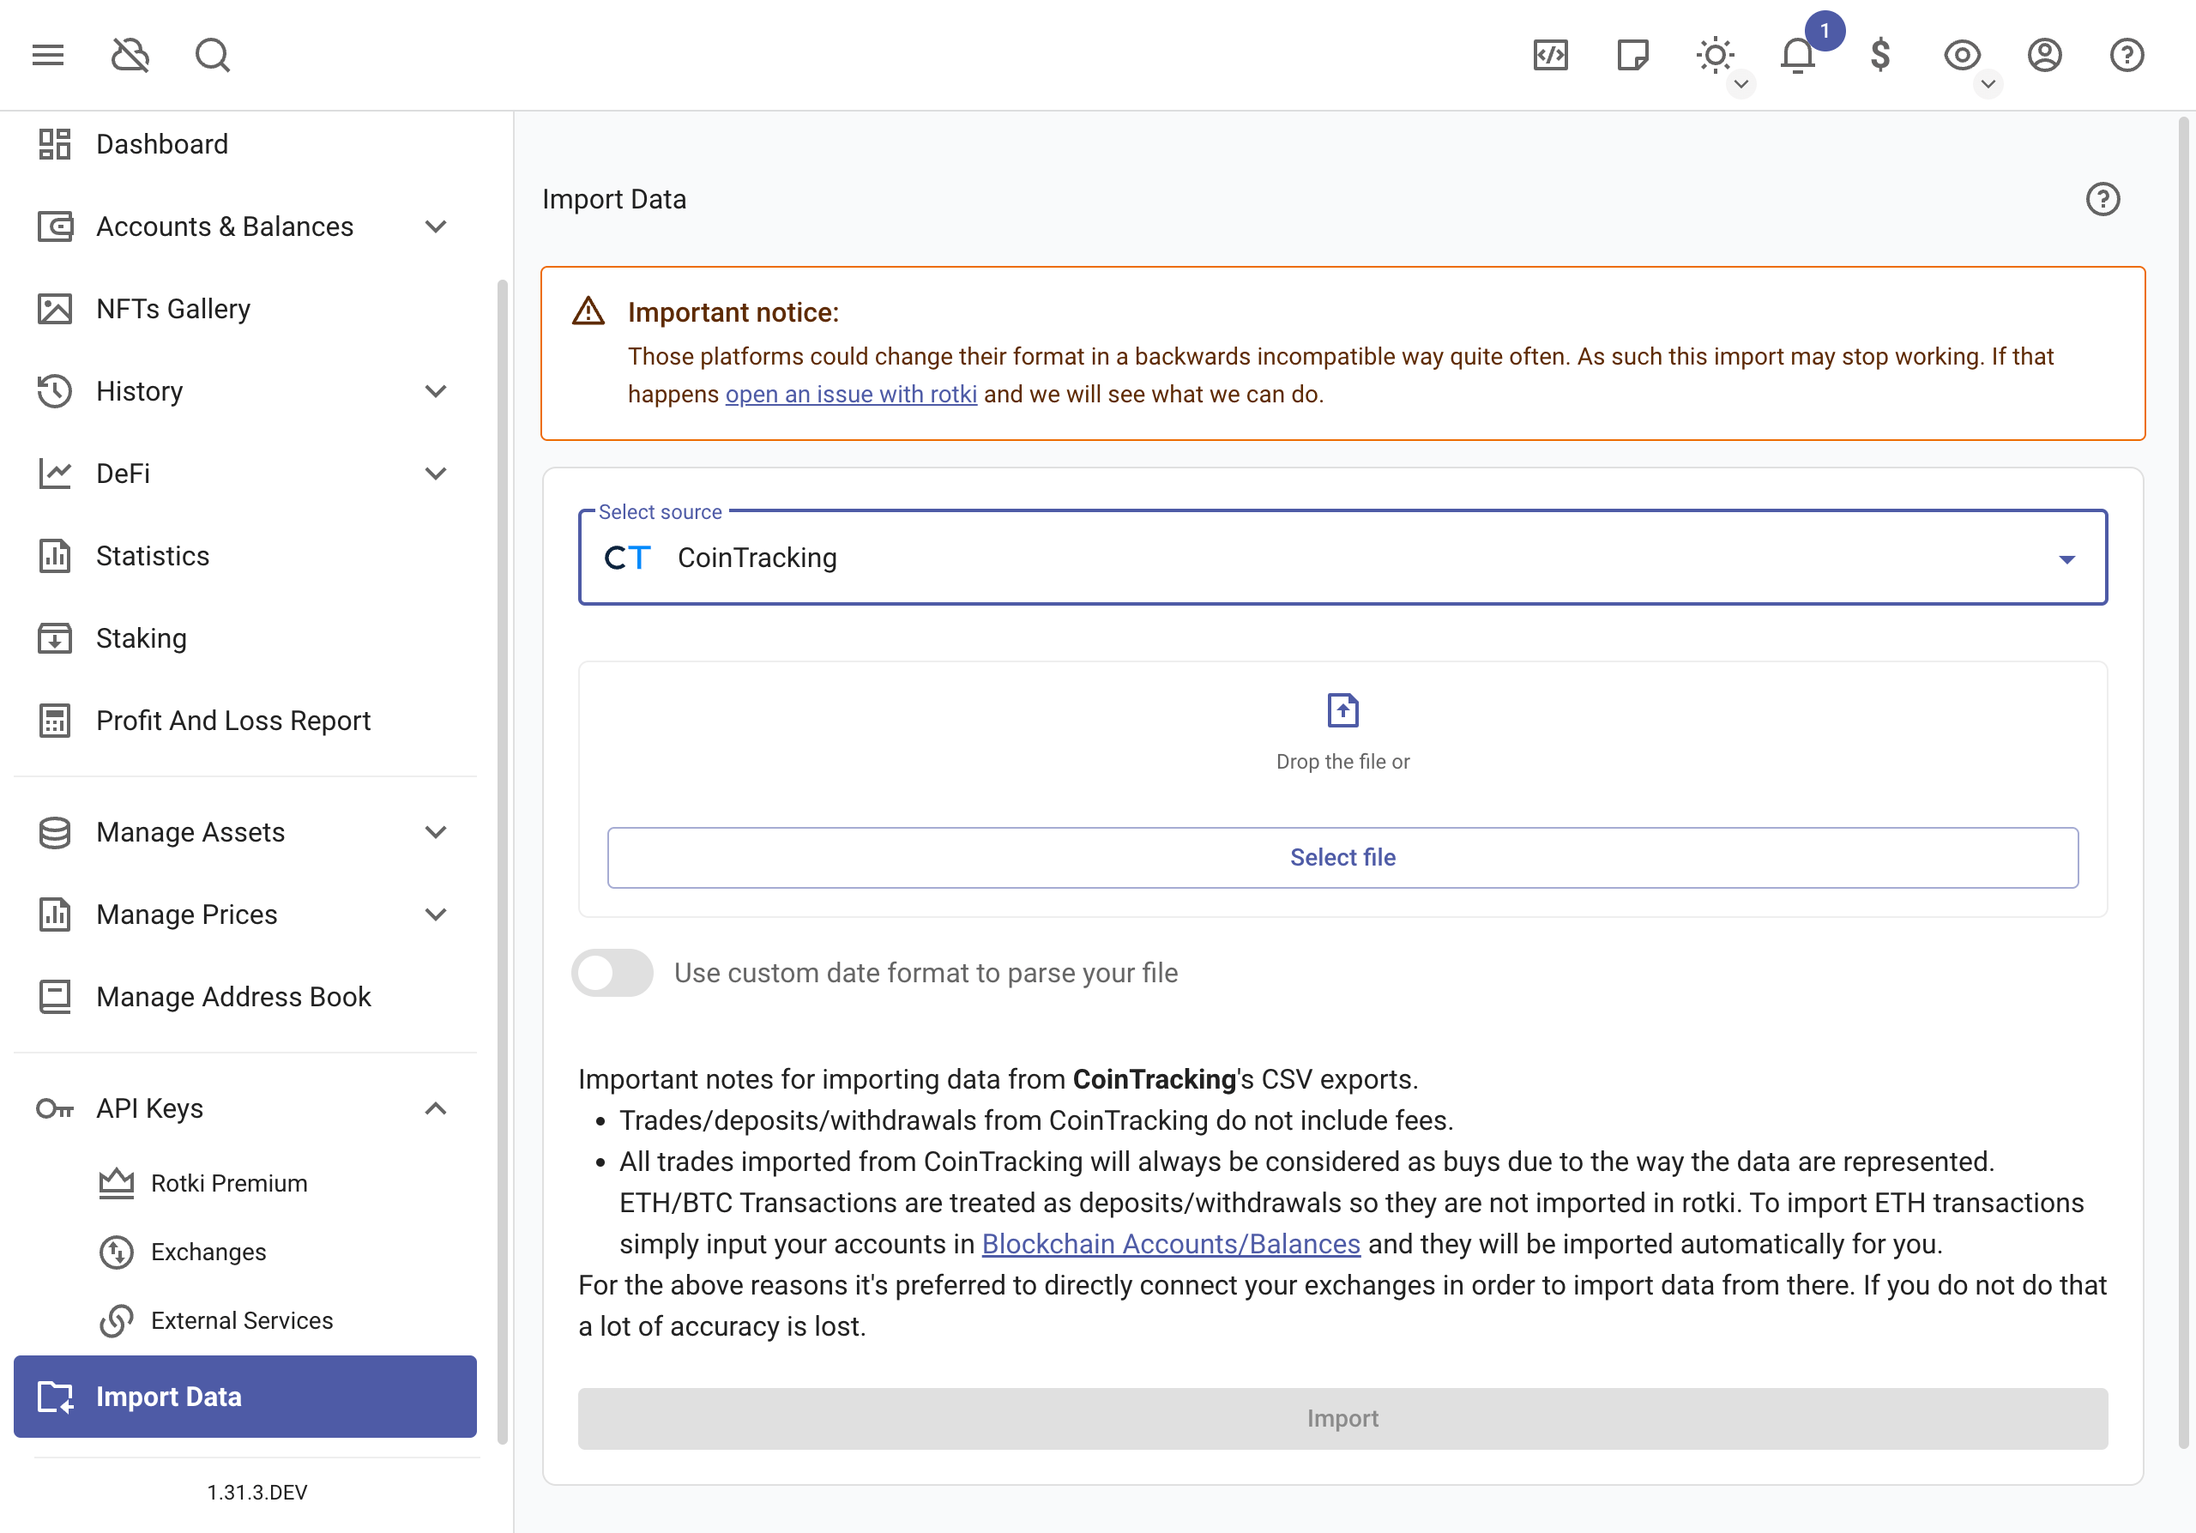
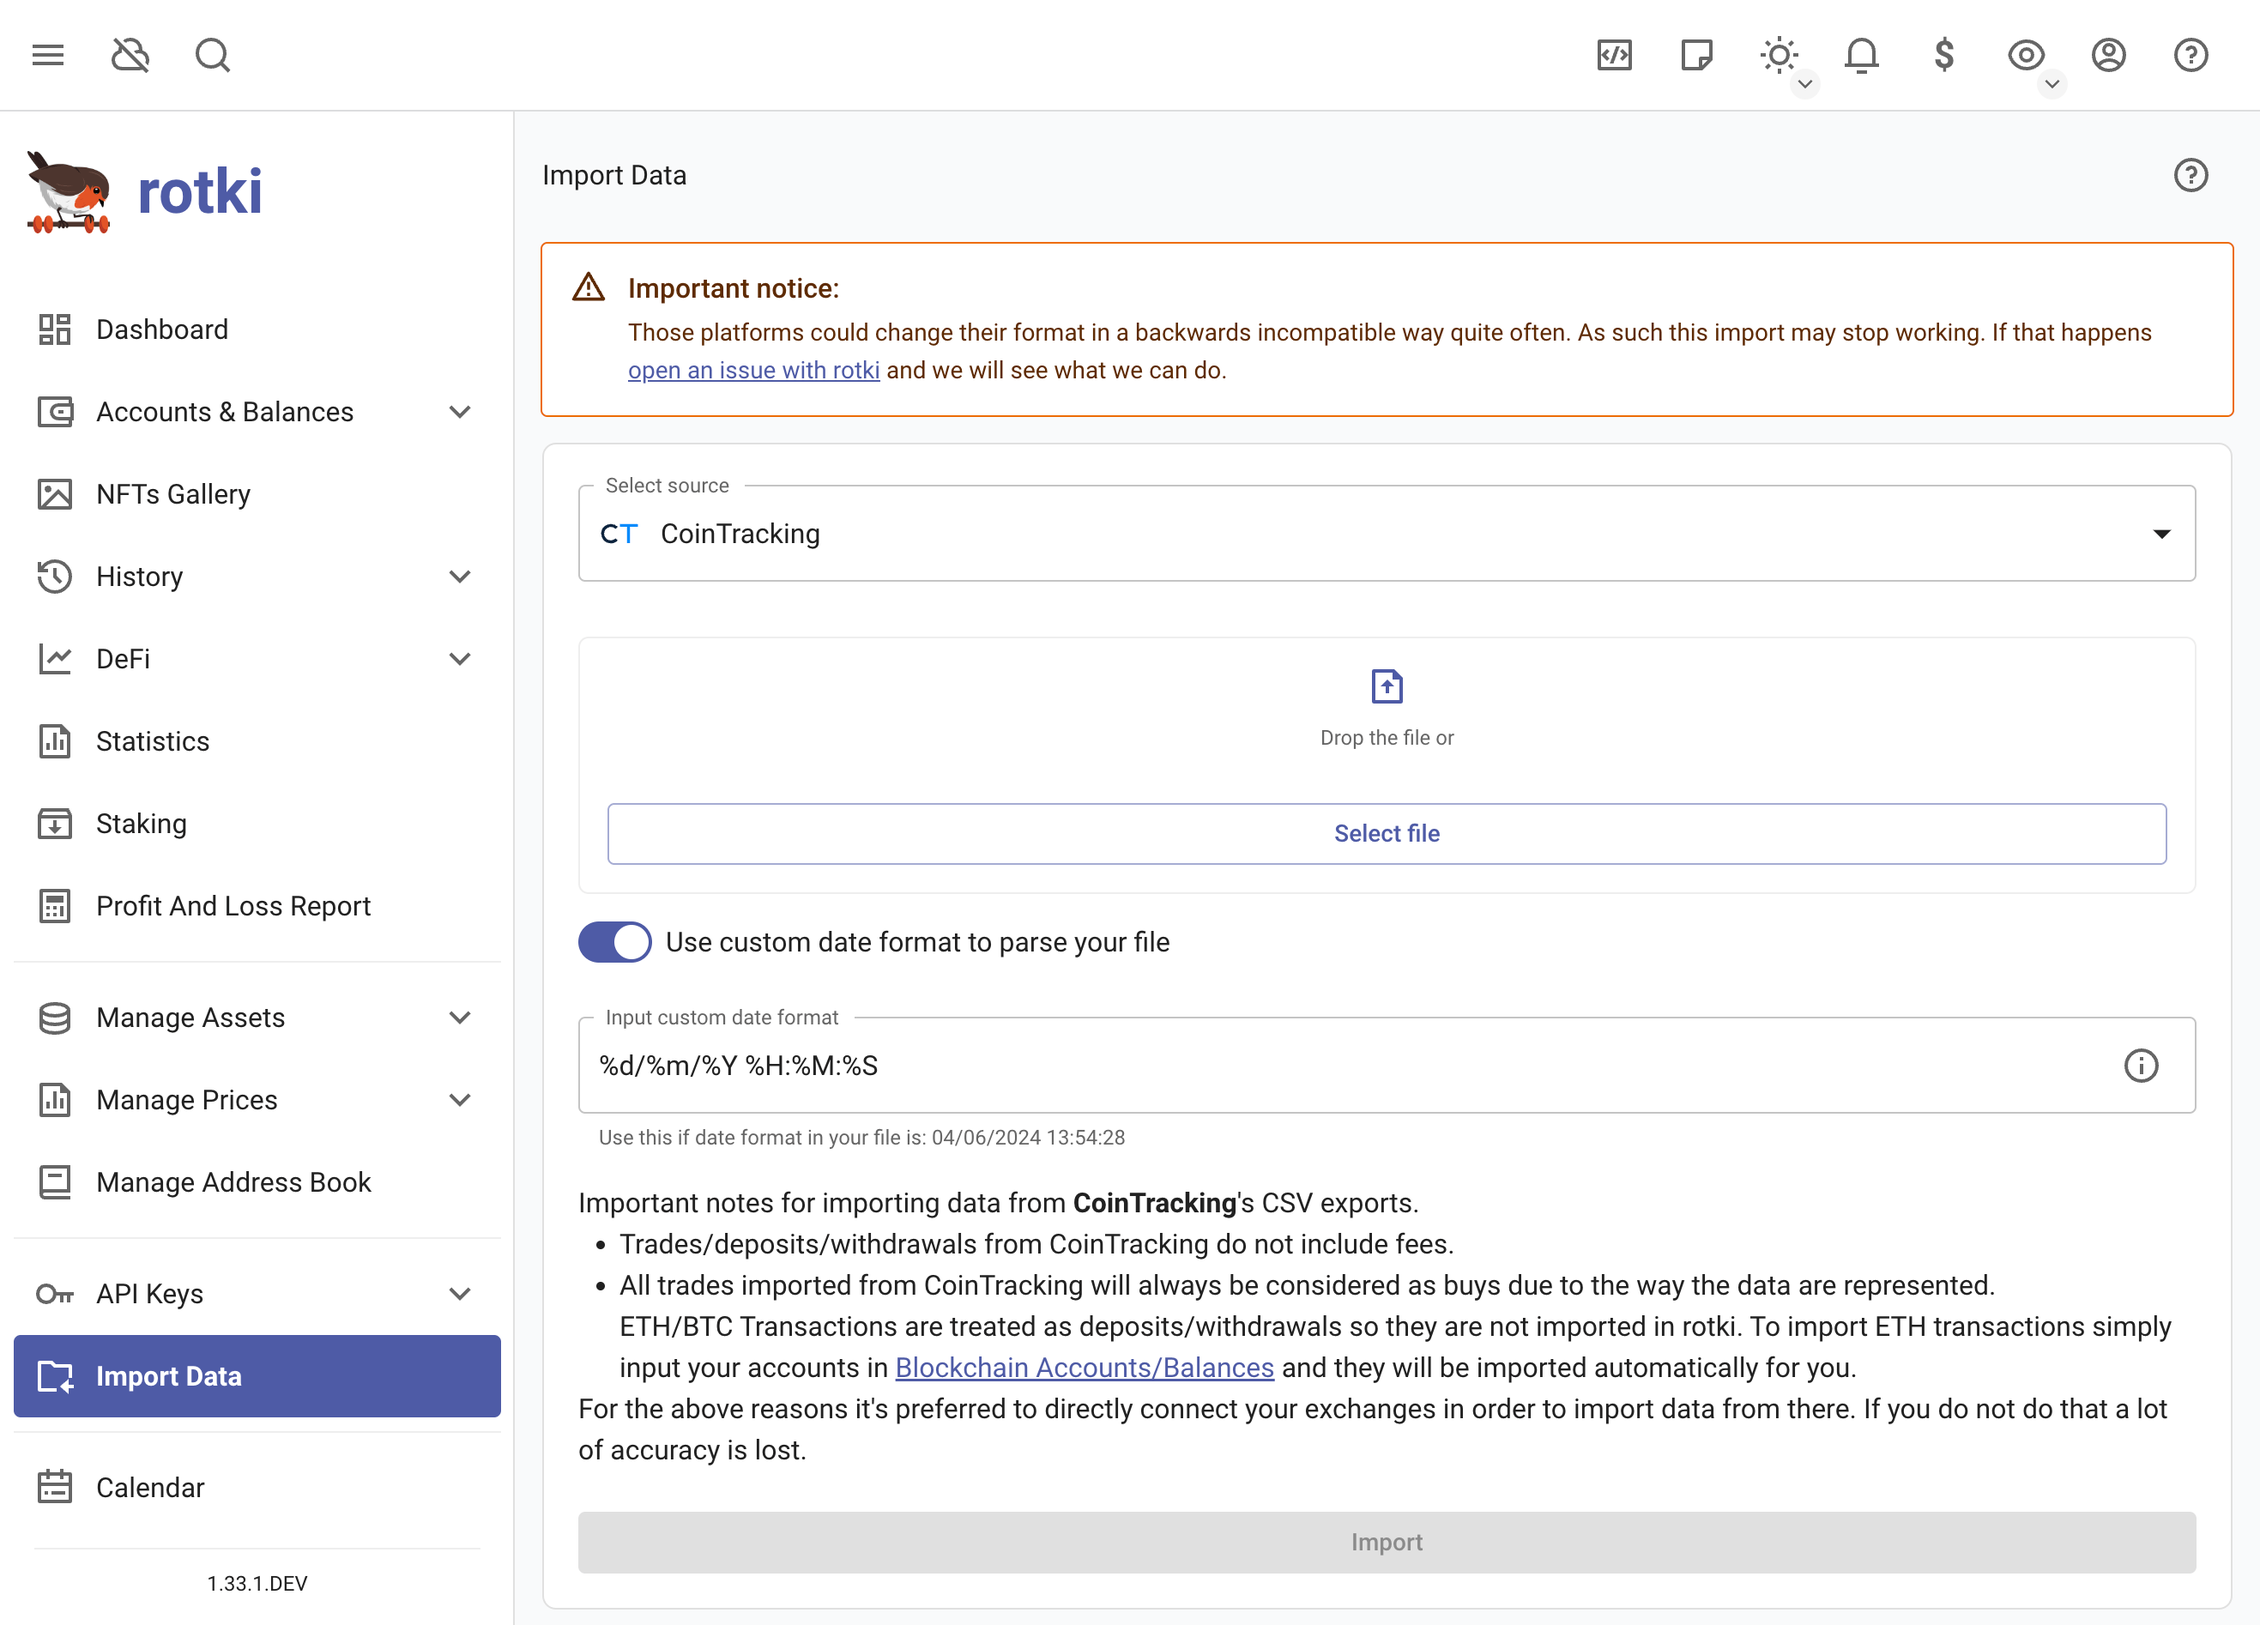
docs: arrange docs for import exchange CSV

diff --git a/docs/usage_guide.rst b/docs/usage_guide.rst
@@ -873,20 +873,28 @@ After creating the API key, you can add it to Rotki. Additionally, ensure that t
      :alt: The Graph subgraphs
      :align: center
 
+Import exchange data (CSV)
+==========================
+
+For exchanges that don't support integration through API keys (or haven't integrated to rotki), you can still import your trades or transactions. First, export the CSV file from the exchange's user interface. Then, import this CSV file into rotki.
+
+Go to :menuselection:`Import Data`.
+
+   .. image:: images/sc_data_import.png
+     :alt: Import CSV Data
+     :align: center
+
+You can only use a CSV file here. Additionally, the time format in the CSV might differ from what Rotki expects. To address this, enable the ``Use custom date format to parse your file`` setting before clicking ``Import``. Then, specify the time format used in the CSV file.
 
 Cointracking.info
-====================
+-----------------
 
 You can also import data from `cointracking.info <https://cointracking.info/>`_ into rotki by clicking on "Import Data" on the left sidebar and then following the instructions.
 
 Rotki can import any trade CSV data exported from cointracking.info. But in general it's not recommended to utilize cointracking as their exported data are missing a lot of information.
 
-.. image:: images/sc_data_import.png
-   :alt: Importing data from cointracking.info
-   :align: center
-
 Binance.com
-=============
+-----------
 
 You can import data from `binance.com <https://binance.com/>`_ into rotki by clicking on "Import Data" on the left sidebar and then following the instructions.
 
@@ -895,28 +903,28 @@ Rotki can import a CSV data file exported from Binance. But due to Binance's csv
 By importing a csv file you are able to import more than with the API. Particularly: Trades, Deposits and Withdrawals, Small assets exchange BNB, ETH 2.0 Staking and ETH 2.0 Staking Rewards, Launchpool Interests, POS savings interest, POS savings purchase, POS savings redemption.
 
 BitMEX.com
-=============
+----------
 
 You can import data from `bitmex.com <https://bitmex.com/>`_ into rotki by clicking on "Import Data" on the left sidebar and then following the instructions.
 
 Rotki can import a CSV data file exported from BitMEX. You may see warnings if data can't be imported. If this happens please reach out to us on discord or open an issue on github.
 
 Bitstamp.net
-=============
+------------
 
 You can import data from `bitstamp.net <https://www.bitstamp.net/>`_ into rotki by clicking on "Import Data" on the left sidebar and then following the instructions.
 
 Rotki can import a CSV data file exported from Bitstamp. You may see warnings if data can't be imported. If this happens please reach out to us on discord or open an issue on github.
 
 ShapeShift.com
-====================
+--------------
 
 You can import trade CSV data file exported from shapeshift.com.  Transactions will come from adding your Blockchain Accounts used with ShapeShift to rotki.
 
 Import data in the same section as the image above in the prior heading.  When exporting trades from ShapeShift, the selected wallet may show DEX trades in the user interface.  If it is not the Native wallet, DEX trades may not show up in the user interface, but they still export to CSV.  This importer ignores DEX trades, as they are covered by premium support for Uniswap and SushiSwap.
 
 uphold.com
-====================
+----------
 
 You can import transaction history CSV data exported from the uphold.com activity page.  Transactions will be created when the row's origin currency and destination currency are the same.  Trades will be created if the currencies differ and a rate will be determined automatically.
 
